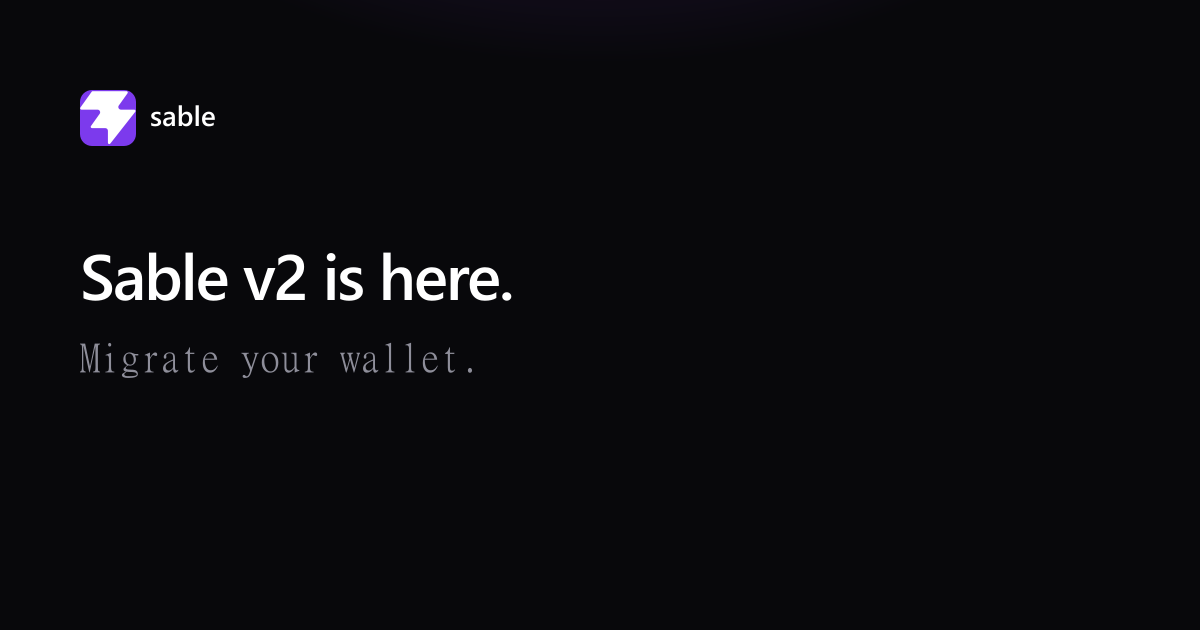
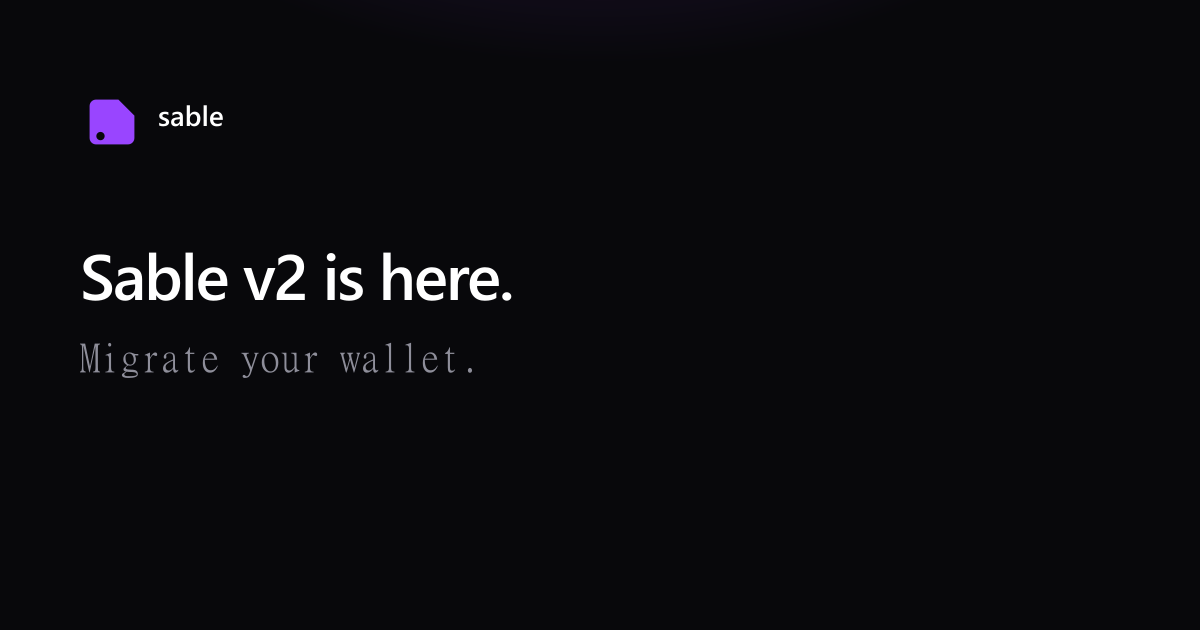
new mark

Changed region(s): [[0.0617, 0.1206, 0.185, 0.2413]]

diff --git a/web/src/App.tsx b/web/src/App.tsx
@@ -96,10 +96,8 @@ export default function App() {
       <div className="topbar-inner">
         <a href="#/" className="brand" style={{ textDecoration: "none" }}>
           <span className="brand-ring">
-            <svg width="18" height="18" viewBox="0 0 18 18" aria-hidden="true">
-              <rect x="1" y="1" width="16" height="16" rx="5" fill="#A855F7" />
-              <path d="M6 11.5c1.2.8 4.2 1 4.2-.8 0-1.7-4.1-.9-4.1-2.8 0-1.7 2.9-1.7 4.1-.9"
-                stroke="#0B0B0F" strokeWidth="1.4" fill="none" strokeLinecap="round" />
+            <svg width="20" height="20" viewBox="0 0 400 400" aria-hidden="true">
+              <path fillRule="evenodd" fill="#9945FF" d="M100 60 H240 L340 160 V300 A40 40 0 0 1 300 340 H100 A40 40 0 0 1 60 300 V100 A40 40 0 0 1 100 60 Z M128 262 a26 26 0 1 0 0.1 0 Z"/>
             </svg>
           </span>
           <span>Sable</span>
